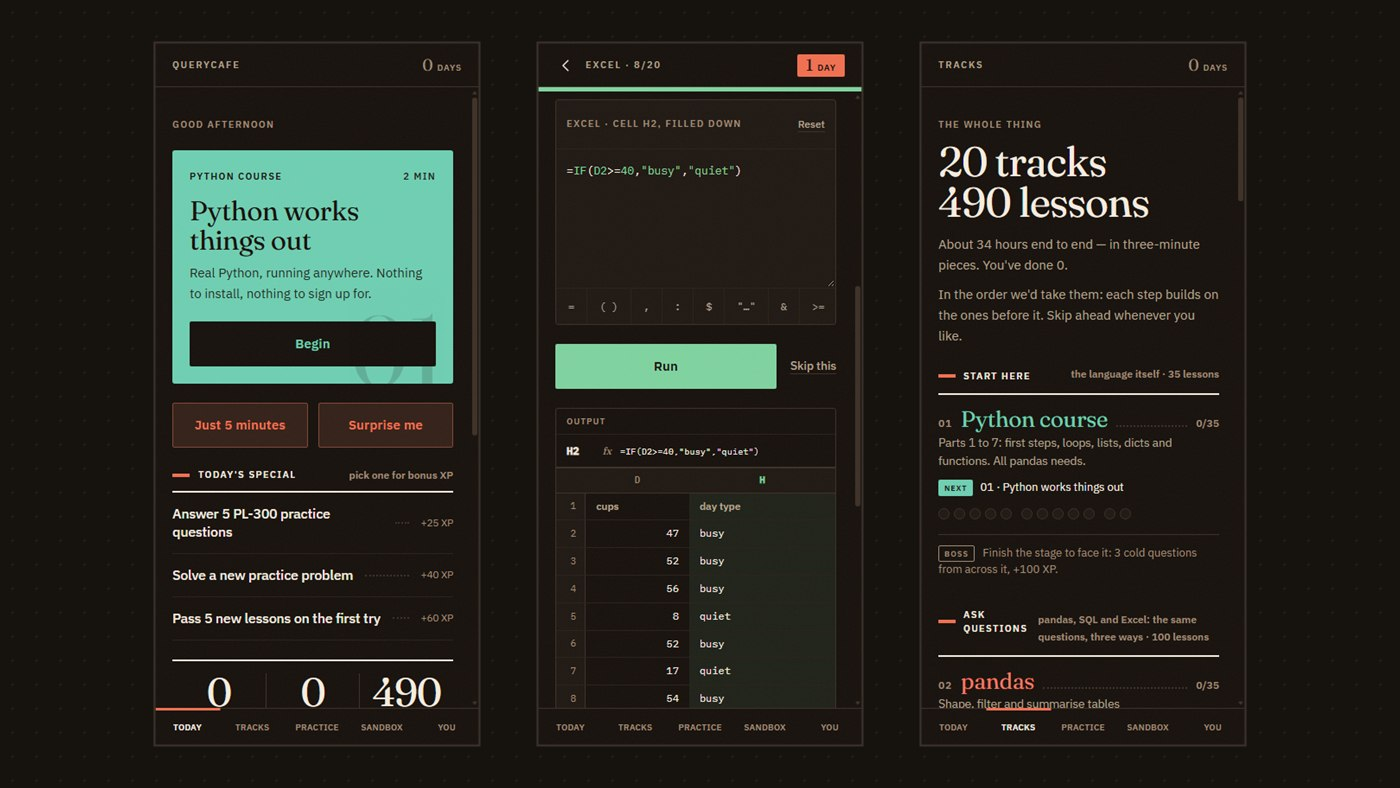
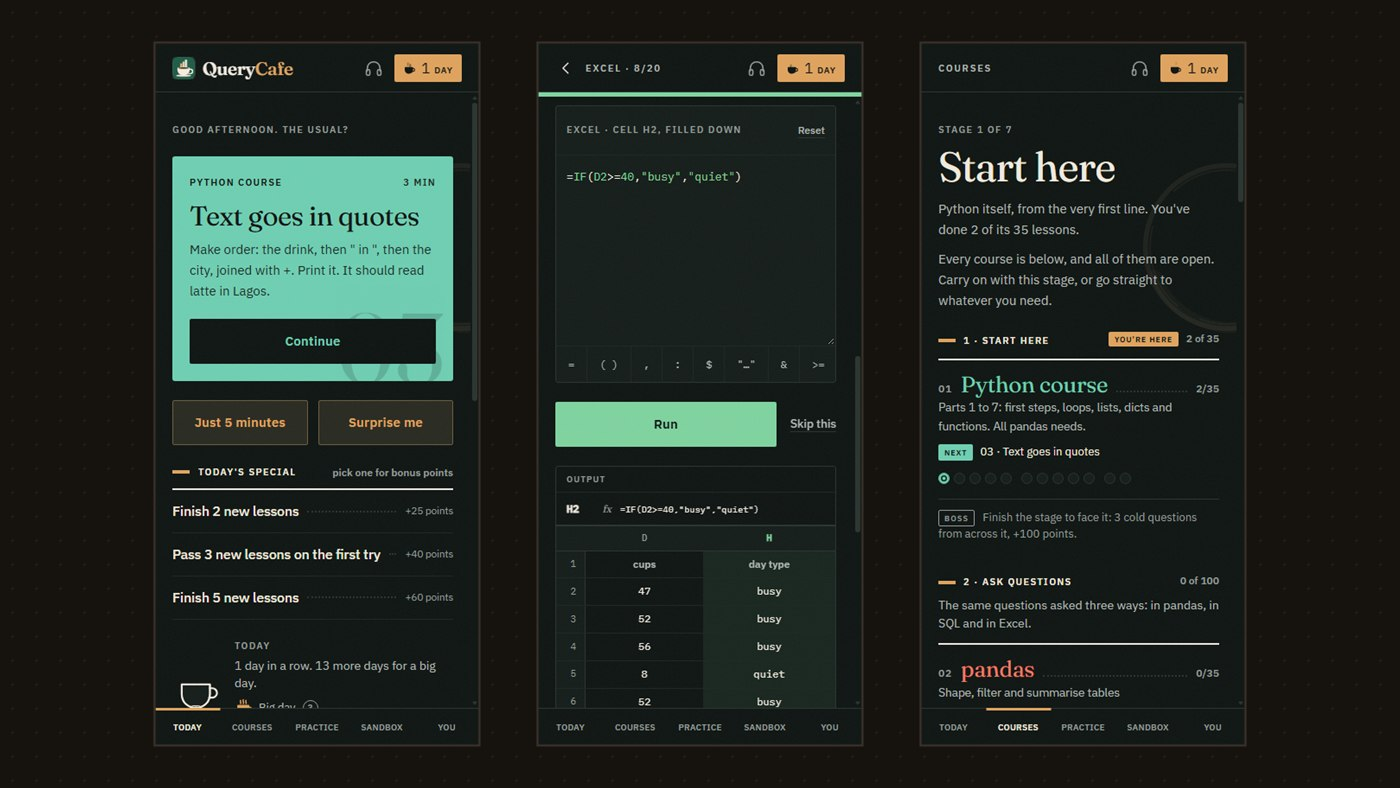
QueryCafe: 175 practice problems, Excel in practice and the sandbox, background sounds, and a new screenshot

diff --git a/js/app.js b/js/app.js
@@ -882,15 +882,16 @@
             liveLabel: 'Open QueryCafe',
             repo: 'https://github.com/TheLordBass/databites',
             gallery: [
-                { src: 'assets/shots/querycafe.jpg', cap: 'On a phone, which is what it was built for. Home leads with the next lesson, each lesson is three bullets and an editor (here an Excel formula, drawn back as the sheet it fills), and the tracks screen lays everything out as a numbered path.', alt: 'Three QueryCafe phone screens: the home screen with one next lesson and a Begin button, an Excel lesson whose formula is drawn back as the spreadsheet it fills, with a formula bar, and the tracks screen showing 20 tracks and 490 lessons as a numbered learning path.' }
+                { src: 'assets/shots/querycafe.jpg', cap: 'On a phone, which is what it was built for. Home leads with the next lesson, each lesson is three bullets and an editor (here an Excel formula, drawn back as the column it fills), and Courses lays everything out as a path in seven stages.', alt: 'Three QueryCafe phone screens in its dark green and caramel theme: the home screen with the next lesson, a Continue button and today’s special in points; an Excel lesson whose IF formula is drawn back as the column it fills, under a formula bar; and the Courses screen with the first of seven stages and every course open below it.' }
             ],
             blocks: [
                 { h: 'What it is', p: [
-                    'A learning app that runs entirely in the browser. It began as pandas lessons I could do on my phone and kept growing: there are now 490 lessons across 20 tracks: 355 in Python (an 80-lesson course for complete beginners, plus pandas, NumPy, messy data, statistics, forecasting, business metrics, machine learning, AI and algorithms), 45 in SQL, 45 in DAX (10 of those on Power BI modelling), 20 in Excel and 25 across four projects, laid out as a numbered path in the order to take them. On top of that are 159 practice problems and a PL-300 prep section with 107 exam-style questions for the Power BI Data Analyst exam.',
+                    'A learning app that runs entirely in the browser. It began as pandas lessons I could do on my phone and kept growing: there are now 490 lessons across 20 tracks: 355 in Python (an 80-lesson course for complete beginners, plus pandas, NumPy, messy data, statistics, forecasting, business metrics, machine learning, AI and algorithms), 45 in SQL, 45 in DAX (10 of those on Power BI modelling), 20 in Excel and 25 across four projects, laid out as a numbered path in the order to take them. On top of that are 175 practice problems (56 in Python, 56 in SQL, 28 in DAX, 16 in Excel and 19 algorithms) and a PL-300 prep section with 107 exam-style questions for the Power BI Data Analyst exam.',
                     'Nothing gets installed, and your code stays in the browser. Progress does too, unless you turn on sync: it copies your progress to a small Supabase database under a code, with no name or email attached, so a phone and a work computer can share it. After the first load it works with no connection. That first load pulls down about 25MB of Python runtime, so it is worth doing on wifi once.'
                 ]},
                 { h: 'Why I built it', p: [
-                    'Most data tutorials are built as long sessions that assume you can hold an hour of context in your head at once. That does not match how a lot of people learn, me included. So the home screen leads with one thing, the next lesson. Each concept gets three bullets at most before you type something, and getting stuck is one tap away from the answer with no penalty for taking it. The depth is still there for anyone who wants it: the SQL, pandas, DAX and Excel lessons each have an optional fold with why it works, the usual mistake and where it turns up at work. A five minute session is still worth doing, and you are far more likely to come back tomorrow.'
+                    'Most data tutorials are built as long sessions that assume you can hold an hour of context in your head at once. That does not match how a lot of people learn, me included. So the home screen leads with one thing, the next lesson. Each concept gets three bullets at most before you type something, and getting stuck is one tap away from the answer with no penalty for taking it. The depth is still there for anyone who wants it: the SQL, pandas, DAX and Excel lessons each have an optional fold with why it works, the usual mistake and where it turns up at work. A five minute session is still worth doing, and you are far more likely to come back tomorrow.',
+                    'There are optional background sounds for the same reason, because a bit of noise helps some people focus: lo-fi music generated in the app, a real recording of a caf\u00e9 (public domain, from freesound.org) and rain, each with its own volume.'
                 ]},
                 { h: 'How it was built', p: [
                     'With Claude, Anthropic\u2019s AI model. It was co-written with Claude from the first commit, and a lot of the code came out of that back and forth, the DAX and Excel engines included. It would feel wrong to put it on a portfolio without saying so.',
@@ -899,15 +900,16 @@
                 { h: 'The DAX and Excel engines', p: [
                     'You cannot run Microsoft\u2019s DAX engine in a browser, so we built one: about 2,400 lines of Python that handles measures, filter and row context, context transition, CALCULATE with ALL, ALLEXCEPT and KEEPFILTERS, the X iterators, RELATED, RANKX, calculated columns and time intelligence on a marked calendar table. Relationships filter one way from lookup to data, as they do in a default Power BI model.',
                     'Every DAX lesson\u2019s answer was checked against the same numbers worked out separately in pandas. This page used to flag one gap: a whole table used as a CALCULATE filter did not reach the lookup tables behind it. It does now, the way Power BI\u2019s expanded tables do, and it stops at a blank key where Power BI would use the blank row.',
-                    'Excel got the same treatment. The app\u2019s own tables become sheets, with headings in row 1, and about 3,000 lines of Python follow Excel\u2019s rules where a learner would notice: $ locking and filling down, how it rounds, dates stored as numbers, error values like #N/A that carry on until IFERROR catches them, lookups, and lists that spill. The answer is drawn as the sheet itself. The engine is checked against about 130 formulas with known answers, with its totals checked against pandas.'
+                    'Excel got the same treatment. The app\u2019s own tables become sheets, with headings in row 1, and about 3,500 lines of Python follow Excel\u2019s rules where a learner would notice: $ locking and filling down, how it rounds, dates stored as numbers, error values like #N/A that carry on until IFERROR catches them, lookups, and lists that spill. The answer is drawn as the sheet itself, and because Excel is visual, every Excel lesson and problem shows the sheet before you type, with the cell your formula goes in outlined. The engine is checked against about 130 formulas with known answers, with its totals checked against pandas.'
                 ]},
-                { h: 'One workspace, three languages', p: [
-                    'SQL runs in SQLite through Python\u2019s own sqlite3, and every DataFrame becomes a table of the same name. So the SQL lessons query the very same cafe table the pandas lessons use, and nothing needs keeping in sync. The sandbox has a Python, SQL and DAX switch over one shared workspace. Make a DataFrame in Python mode and it is a table in SQL mode.',
+                { h: 'One workspace, four languages', p: [
+                    'SQL runs in SQLite through Python\u2019s own sqlite3, and every DataFrame becomes a table of the same name. So the SQL lessons query the very same cafe table the pandas lessons use, and nothing needs keeping in sync. The sandbox has a Python, SQL, Excel and DAX switch over one shared workspace. Make a DataFrame in Python mode and it is a table in SQL mode and a sheet in Excel mode.',
                     'Where SQLite does something differently from PostgreSQL, BigQuery or SQL Server, the lesson says so underneath: LIMIT against TOP, integer division, date functions and the rest, so what you learn carries over to whatever database a job uses.'
                 ]},
                 { h: 'Practice that tests honestly', p: [
                     'The practice problems work like LeetCode. There is no starter code, and your answer is judged against hidden inputs that include the edge cases the problem is really about: ties, missing values, empty results. When it fails it shows you exactly which case broke, what was expected and what you returned.',
-                    'Each problem also carries tempting wrong answers that the tests must reject, like a >= where it should be >, or an inner join that quietly drops the customers who never ordered. If a wrong answer ever passed, the hidden cases would not be testing the trap, so this proves they do. Alternative correct answers go in the other direction and must pass, which catches tests that only allow one way of writing it.'
+                    'Each problem also carries tempting wrong answers that the tests must reject, like a >= where it should be >, or an inner join that quietly drops the customers who never ordered. If a wrong answer ever passed, the hidden cases would not be testing the trap, so this proves they do. Alternative correct answers go in the other direction and must pass, which catches tests that only allow one way of writing it.',
+                    'The Excel problems are judged the same way, on changed data: the formula is worked out again on the sheet with its rows shuffled, then with a fresh draw of its rows, so a number typed in, or a formula that only fits this exact data, fails.'
                 ]}
             ]
         },

diff --git a/index.html b/index.html
@@ -509,7 +509,7 @@
             <article class="card project-card is-featured has-shot" data-category="python" data-project="databites">
                 <a class="project-shot" href="#" data-project="databites" aria-label="Open write-up: QueryCafe">
                     <img src="assets/shots/querycafe.jpg" width="1400" height="788" loading="lazy" decoding="async"
-                         alt="Three QueryCafe phone screens: the home screen with one next lesson and a Begin button, an Excel lesson whose formula is drawn back as the spreadsheet it fills, with a formula bar, and the tracks screen showing 20 tracks and 490 lessons as a numbered learning path.">
+                         alt="Three QueryCafe phone screens in its dark green and caramel theme: the home screen with the next lesson, a Continue button and today’s special in points; an Excel lesson whose IF formula is drawn back as the column it fills, under a formula bar; and the Courses screen with the first of seven stages and every course open below it.">
                 </a>
                 <div class="project-top">
                     <span class="project-kind">Pyodide · SQLite · JavaScript</span>
@@ -517,7 +517,7 @@
                 </div>
                 <p class="project-desc">
                     Short lessons that run in the browser with nothing to install. It started as pandas
-                    on my phone and is now 490 lessons across Python, SQL, DAX and Excel, 159 practice
+                    on my phone and is now 490 lessons across Python, SQL, DAX and Excel, 175 practice
                     problems and PL-300 exam prep. I built it with Claude as my coding partner, because most tutorials
                     assume you can hold an hour of context in your head at once, and some days I can't.
                 </p>
